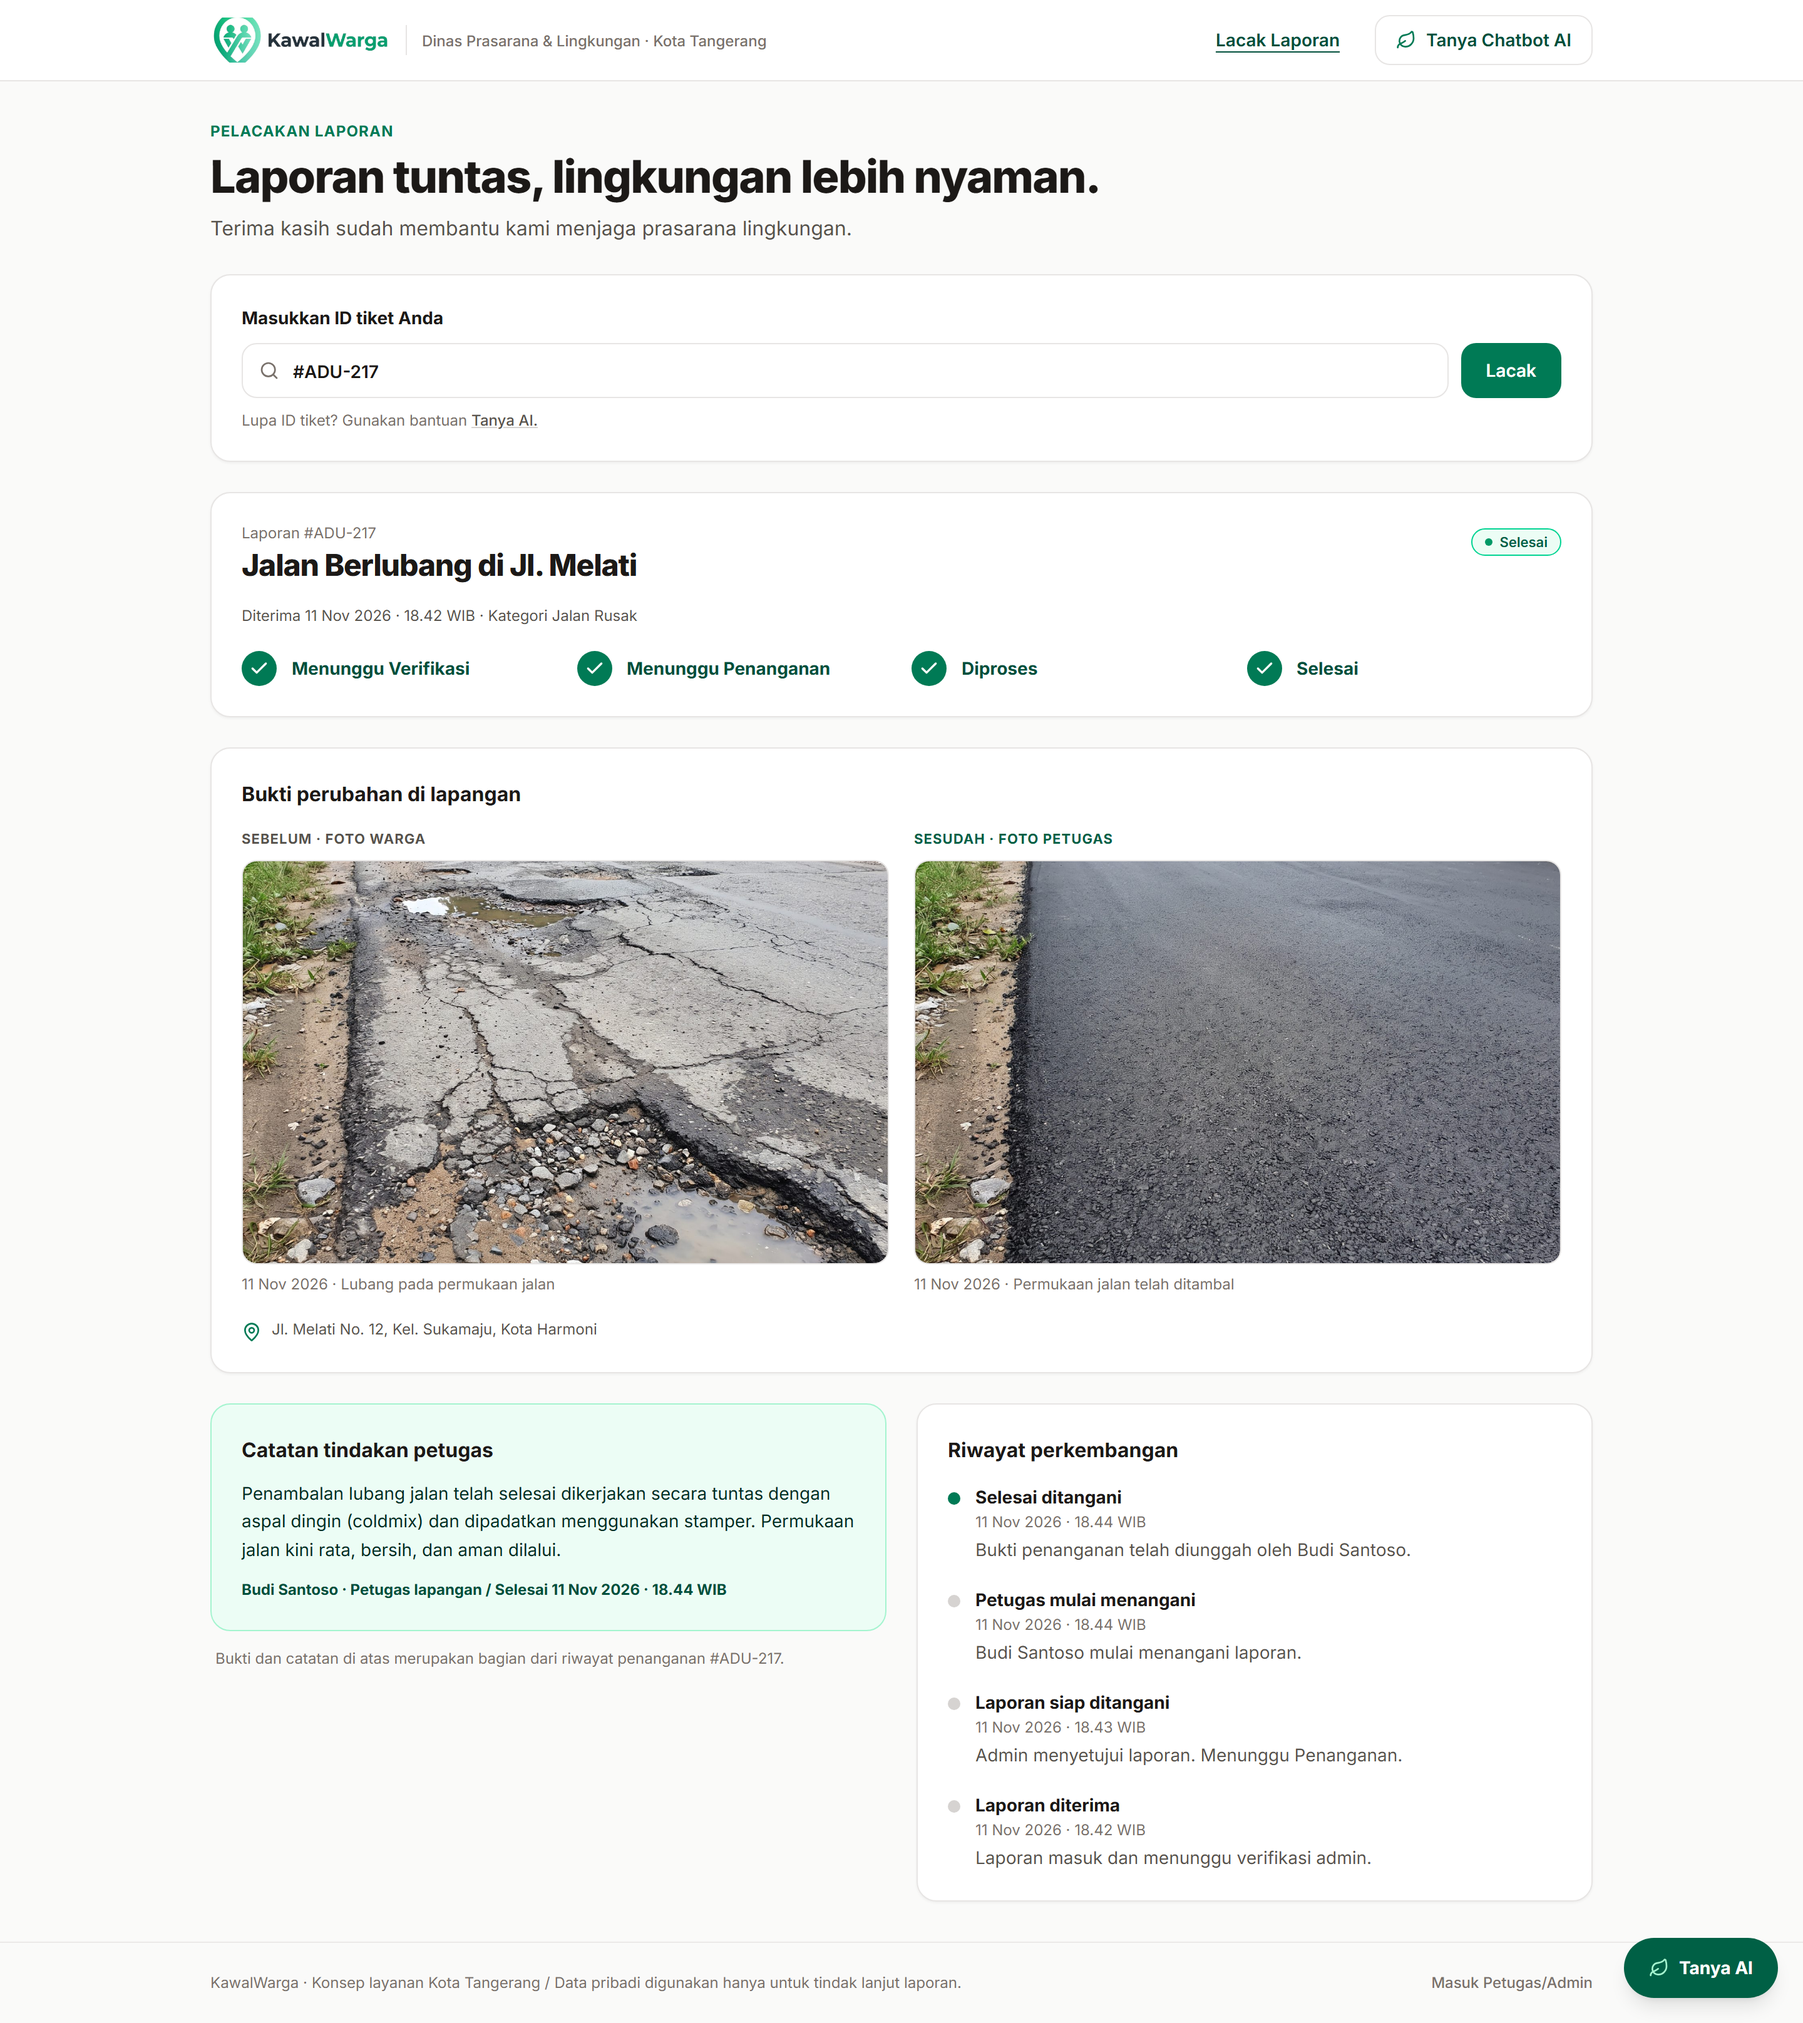
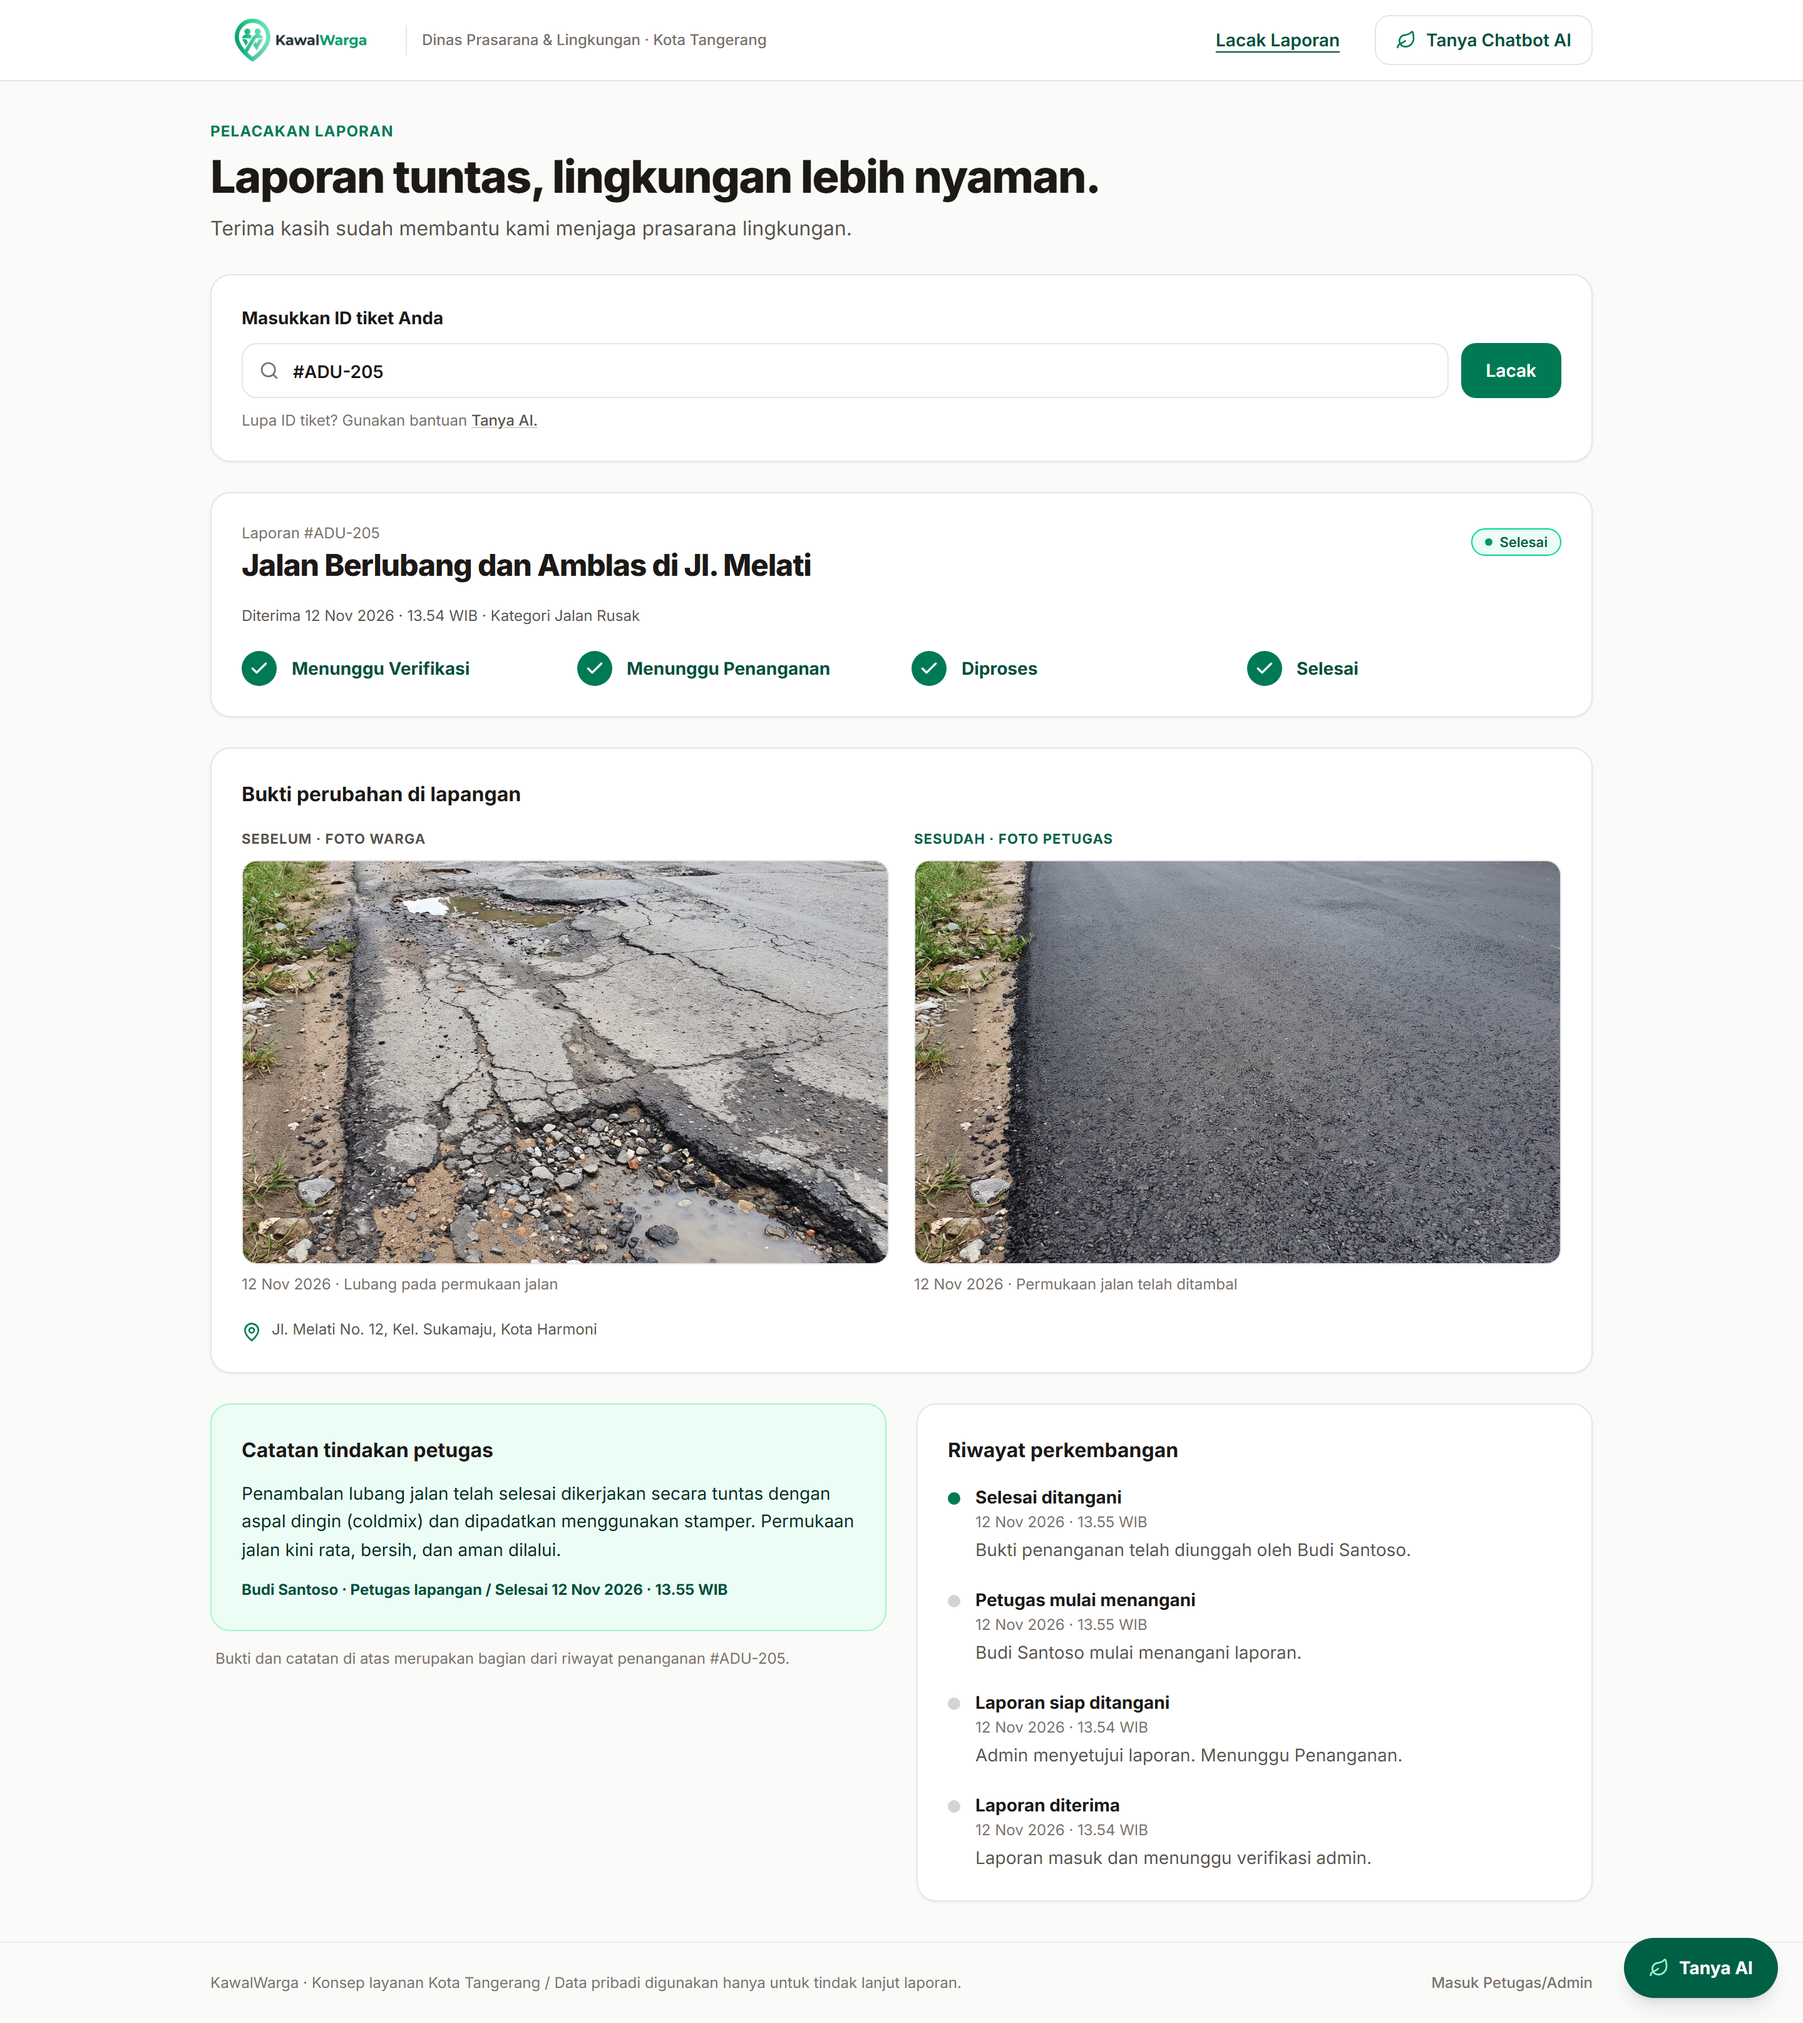
docs(screenshots): update desktop flow screenshots with sticky sidebar, justify-between bottom bar, and notification badges

diff --git a/README.md b/README.md
@@ -9,7 +9,7 @@ Platform pengaduan dan pemantauan masalah infrastruktur & lingkungan publik mode
 Dokumentasi visual alur pengaduan dan penanganan masalah infrastruktur (*Studi Kasus: Jalan Rusak*) secara lengkap dari sisi Warga, Admin Verifikator, hingga Petugas Lapangan.
 
 ### 1. Warga (Publik) — Pengajuan Laporan & Bukti Tiket
-| 01. Form Buat Laporan (Desktop) | 02. Bukti Laporan Terkirim (#ADU-204) |
+| 01. Form Buat Laporan (Desktop) | 02. Bukti Laporan Terkirim (#ADU-205) |
 | :---: | :---: |
 | ![01 - Buat Laporan](docs/screenshots/01%20-%20Warga%20%C2%B7%20Buat%20laporan%20%C2%B7%20Desktop.png) | ![02 - Laporan Terkirim](docs/screenshots/02%20-%20Warga%20%C2%B7%20Laporan%20terkirim%20%C2%B7%20Desktop.png) |
 
